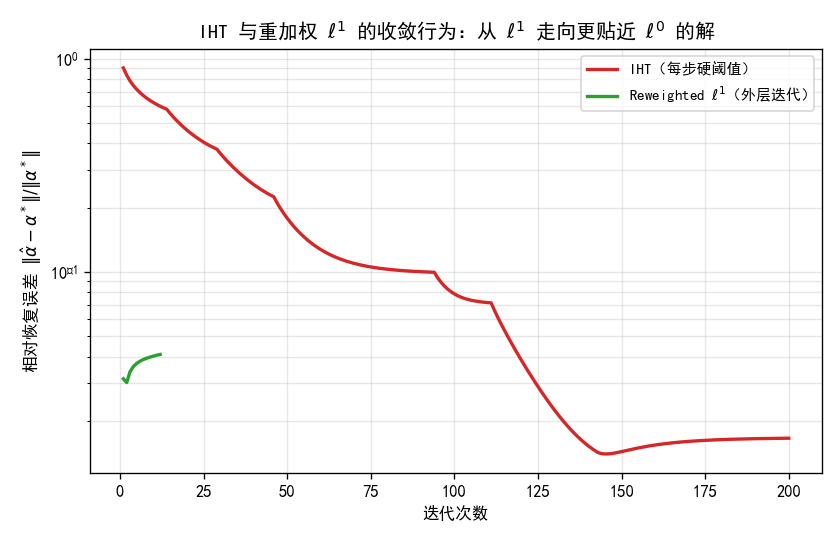
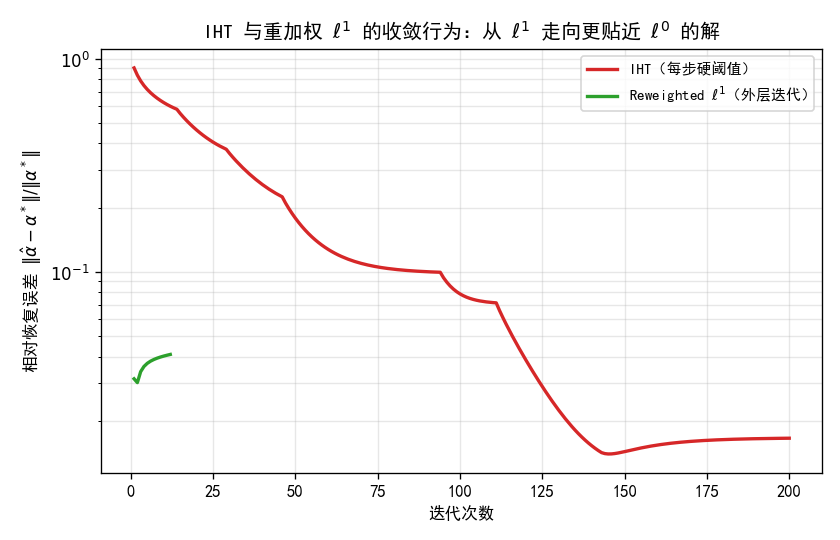
1

diff --git a/book/manuscript/ch02/第二章 配套实验/实验2.2-2/2.2-2.py b/book/manuscript/ch02/第二章 配套实验/实验2.2-2/2.2-2.py
@@ -495,6 +495,11 @@ ax.set_ylabel('相对恢复误差 $\\|\\hat{\\alpha}-\\alpha^*\\| / \\|\\alpha^*
 ax.set_title('IHT 与重加权 $\\ell^1$ 的收敛行为：从 $\\ell^1$ 走向更贴近 $\\ell^0$ 的解')
 ax.legend(fontsize=9)
 ax.grid(alpha=0.3, which='both')
+# 对数轴默认 LogFormatter 的主刻度标签包在 \mathdefault{} 里，其上标负号（U+2212）会
+# 回退到中文字体（SimHei 缺该字形）而渲染成豆腐块；改用纯 mathtext 格式器，
+# 负指数由数学字体（DejaVu）渲染，与本图标题/轴标里的其他 mathtext 风格保持一致
+ax.yaxis.set_major_formatter(FuncFormatter(
+    lambda v, _: f'$10^{{{int(round(np.log10(v)))}}}$'))
 fig.tight_layout()
 fig.savefig(os.path.join(SAVE_DIR, '图5_收敛曲线.png'), dpi=120)
 plt.close(fig)

diff --git a/第2章 先验：贝叶斯推断的灵魂/第二章 配套实验/实验2.2-2/2.2-2.py b/第2章 先验：贝叶斯推断的灵魂/第二章 配套实验/实验2.2-2/2.2-2.py
@@ -495,6 +495,11 @@ ax.set_ylabel('相对恢复误差 $\\|\\hat{\\alpha}-\\alpha^*\\| / \\|\\alpha^*
 ax.set_title('IHT 与重加权 $\\ell^1$ 的收敛行为：从 $\\ell^1$ 走向更贴近 $\\ell^0$ 的解')
 ax.legend(fontsize=9)
 ax.grid(alpha=0.3, which='both')
+# 对数轴默认 LogFormatter 的主刻度标签包在 \mathdefault{} 里，其上标负号（U+2212）会
+# 回退到中文字体（SimHei 缺该字形）而渲染成豆腐块；改用纯 mathtext 格式器，
+# 负指数由数学字体（DejaVu）渲染，与本图标题/轴标里的其他 mathtext 风格保持一致
+ax.yaxis.set_major_formatter(FuncFormatter(
+    lambda v, _: f'$10^{{{int(round(np.log10(v)))}}}$'))
 fig.tight_layout()
 fig.savefig(os.path.join(SAVE_DIR, '图5_收敛曲线.png'), dpi=120)
 plt.close(fig)

diff --git a/book/meta/全书缺口报告.md b/book/meta/全书缺口报告.md
@@ -68,6 +68,18 @@
 全书 118 个实验、6794 个 json 数值，正文覆盖率 68.6%（正常：正文只引用关键值）。
 余下 3 个低覆盖实验（5.4-2、9.3-1、10.1-1）均为 json 含长数组（训练曲线等）的正常情况，抽查关键指标即可。
 
+### 2026-10-25 仓库更新复审（合并 `e04ad0a` 后全量重跑）
+
+远端更新合并后做了一次地基+审计复审，结论：**无需重做**，既有审计资产全部有效。四套自动审计重跑增量良性：crossrefs 仍 0 问题（节 487→488、实验 964→969、图片 360→363，随新增内容上升）；notation 混用组×章结构不变；`audit_numbers` 报告字节级未变；`validate_bib` 全过。人工抽查 4 个正文大改节：13.5 DOC/DPS、15.4 零初始化验证均与当前 `results_summary.json` 逐数字命中（作者已在正文内嵌溯源/修正自审表）；16.1/16.3 相对本地仅“前向→正向”术语统一。
+
+**遗留待办（本节登记，防丢）**：
+
+| # | 事项 | 状态 | 说明 |
+|---|---|---|---|
+| E1 | `Hurault 等 (2022)`（4.7 §153 + 实验 4.7-1.py：未投影 PnP-ULA 严格步长界）——`scan_citations` 检出 212 条中唯一未登记项 | **待作者裁决**，暂不进 bib（维持 ⚠/待核 = 0） | 联网核实：确凿的 Hurault-Leclaire-Papadakis **2022**《Proximal Denoiser for Convergent PnP》(arXiv:2201.13256, ICML 2022) 只讲**确定性** PnP-PGD/PnP-ADMM，**不含 PnP-ULA/Langevin** → 直接登记会构成新型张冠李戴。正文那条随机步长界更像 deepinv 键 `hurault2023convergent`（proximal-MCMC/Langevin 线）。请作者指明确切论文（可能需同步改正文年份/署名，非仅加键） |
+| E2 | 成书树 4 个陈旧 PNG（实验 6.5-1 两个、12.6-1 两个，源端改名遗留的无引用死文件） | 未清（`DeleteFile` 对中文+空格路径失效；禁 shell 强删） | 不影响任何审计与正文（审计跑源树）。建议排版前做一次“删树重建”：`Remove-Item -Recurse book\manuscript` 后重跑 `sync_manuscript.py` 即彻底清零 |
+| E3 | 新入库 `experiment_checkpoint_v3.pkl` / `_T200.pkl` 是否进 git | 作者决定 | 不在同步白名单，不影响成书树；纯仓库体积/可复现性权衡 |
+
 ## 四、成书阶段进度
 
 - [x] **Phase 0** 书稿区分离：`book/` 建立，同步/审计工具就位，gitignore 清理

diff --git a/book/manuscript/ch13/13.5 扩散最优控制（进阶）.md b/book/manuscript/ch13/13.5 扩散最优控制（进阶）.md
@@ -327,7 +327,7 @@ $$\nabla_{\mathbf{x}_t}\log p(\mathbf{y}|\mathbf{x}_t) \approx \nabla_{\mathbf{x
 
 机制上看清一点很重要：图 (b) 显示 T=200 时每步控制只有 `10⁻²` 量级，全程离 `U_MAX=0.5` 的饱和线很远——**T=20 那次“末步一步投影”的坑不会在 T=200 重现**，因为同样的每步上限在 200 步上累积出的总权限放大了约 10 倍。换句话说，`U_MAX` 是“每步”的帽子，真正决定 DOC 能不能一步投影到 `y/A` 的是**总预算**；原文把 T=200 的偏离解释成“300 次迭代对 200 维欠收敛”，机制归因反了。
 
-这里还有一层更根本的原因，值得单独说：本例的观测极其信息充分（`σ_y/A = 0.05`，远小于先验标准差约 1.4），所以 `y/A` 这个“只信测量”的点几乎就是 MMSE 点估计（0.047651 vs 0.047159）。在这个 regime 里，**谁把测量拟合得更死，谁的点误差就更小**——DOC 的 90.7% 相对改进多半来自这一点，而不是“全局协调优于贪心”。
+这里还有一层更根本的原因，值得单独说：本例的观测极其信息充分（`σ_y/A = 0.05`，远小于先验标准差约 1.4），所以 `y/A` 这个“只信测量”的点几乎就是 MMSE 点估计（配对子集 13 次共享试验上 `y/A` 0.047651 与 MMSE 0.047159；对应全样本值为 0.0486 与 0.0481，见 JSON `T扫描补充."200"`）。在这个 regime 里，**谁把测量拟合得更死，谁的点误差就更小**——DOC 的 90.7% 相对改进多半来自这一点，而不是“全局协调优于贪心”。
 
 **第三条：DPS 的稳定窗随 `T` 整体右移，而“好误差”仍然靠收缩换**。
 

diff --git a/第13章 条件生成与逆问题求解/13.5 扩散最优控制（进阶）.md b/第13章 条件生成与逆问题求解/13.5 扩散最优控制（进阶）.md
@@ -327,7 +327,7 @@ $$\nabla_{\mathbf{x}_t}\log p(\mathbf{y}|\mathbf{x}_t) \approx \nabla_{\mathbf{x
 
 机制上看清一点很重要：图 (b) 显示 T=200 时每步控制只有 `10⁻²` 量级，全程离 `U_MAX=0.5` 的饱和线很远——**T=20 那次“末步一步投影”的坑不会在 T=200 重现**，因为同样的每步上限在 200 步上累积出的总权限放大了约 10 倍。换句话说，`U_MAX` 是“每步”的帽子，真正决定 DOC 能不能一步投影到 `y/A` 的是**总预算**；原文把 T=200 的偏离解释成“300 次迭代对 200 维欠收敛”，机制归因反了。
 
-这里还有一层更根本的原因，值得单独说：本例的观测极其信息充分（`σ_y/A = 0.05`，远小于先验标准差约 1.4），所以 `y/A` 这个“只信测量”的点几乎就是 MMSE 点估计（0.047651 vs 0.047159）。在这个 regime 里，**谁把测量拟合得更死，谁的点误差就更小**——DOC 的 90.7% 相对改进多半来自这一点，而不是“全局协调优于贪心”。
+这里还有一层更根本的原因，值得单独说：本例的观测极其信息充分（`σ_y/A = 0.05`，远小于先验标准差约 1.4），所以 `y/A` 这个“只信测量”的点几乎就是 MMSE 点估计（配对子集 13 次共享试验上 `y/A` 0.047651 与 MMSE 0.047159；对应全样本值为 0.0486 与 0.0481，见 JSON `T扫描补充."200"`）。在这个 regime 里，**谁把测量拟合得更死，谁的点误差就更小**——DOC 的 90.7% 相对改进多半来自这一点，而不是“全局协调优于贪心”。
 
 **第三条：DPS 的稳定窗随 `T` 整体右移，而“好误差”仍然靠收缩换**。
 

diff --git a/book/meta/sync_report.md b/book/meta/sync_report.md
@@ -1,31 +1,14 @@
 # 成书树同步报告
 
 - 模式：实际同步
-- 章数：18（绪论另计）
+- 章数：1（绪论另计）
 
 | 章节 | 同步文件数 |
 |---|---|
 | ch00 绪论 | 5 |
-| ch01 第1章 逆问题与贝叶斯推断 | 70 |
-| ch02 第2章 先验：贝叶斯推断的灵魂 | 83 |
-| ch03 第3章 从MAP到后验探索 | 61 |
-| ch04 第4章 MCMC与ULA算法 | 106 |
-| ch05 第5章 朗之万动力学与得分函数 | 127 |
-| ch06 第6章 得分匹配：从去噪中学习得分 | 68 |
-| ch07 第7章 扩散模型：SDE视角 | 59 |
-| ch08 第8章 变分推断与ELBO | 34 |
-| ch09 第9章 VAE与重参数化 | 35 |
-| ch10 第10章 层级VAE与扩散的变分推导 | 32 |
-| ch11 第11章 扩散模型：变分视角 | 20 |
-| ch12 第12章 Score ≡ ELBO：殊途同归 | 28 |
 | ch13 第13章 条件生成与逆问题求解 | 99 |
-| ch14 第14章 Flow Matching与最优传输 | 88 |
-| ch15 第15章 扩散模型的架构实践：UNet → DiT | 55 |
-| ch16 第16章 CT：MRI重建 | 83 |
-| ch17 第17章 自监督学习与等变架构 | 47 |
-| ch18 第18章 综合项目：用扩散模型求解自定义逆问题 | 44 |
 
-**合计同步文件：1144**
+**合计同步文件：104**
 
 > 说明：成书树 `book/manuscript/` 为同步产物，可删除后用本脚本重建；
 > 写作源仍是仓库根下的各章目录。数据集、checkpoint、审计备份均不同步。

diff --git a/book/meta/audit_crossrefs_report.md b/book/meta/audit_crossrefs_report.md
@@ -6,14 +6,14 @@
 
 | 引用类型 | 总数 | 通过 | 缺失 | 通过率 |
 |---|---|---|---|---|
-| 节引用（X.Y节） | 487 | 487 | 0 | 100.0% |
+| 节引用（X.Y节） | 488 | 488 | 0 | 100.0% |
 | 附录引用 | 149 | 149 | 0 | 100.0% |
-| 实验引用 | 964 | 964 | 0 | 100.0% |
-| 图片嵌入 | 360 | 360 | 0 | 100.0% |
+| 实验引用 | 969 | 969 | 0 | 100.0% |
+| 图片嵌入 | 363 | 363 | 0 | 100.0% |
 
 - 三级节引用（如 16.1.4）出现 535 处（未自动验证，建议人工抽查）
 
-- 图片引用形式：尖括号式 `![](<...>)` 359 处，普通式 `![](...)` 1 处，其中 URL 编码路径（`%20`）1 处 —— **三种格式问题并存，Phase 5 排版前需统一并去编码**
+- 图片引用形式：尖括号式 `![](<...>)` 362 处，普通式 `![](...)` 1 处，其中 URL 编码路径（`%20`）1 处 —— **三种格式问题并存，Phase 5 排版前需统一并去编码**
 
 ## 问题清单（共 0 处）
 

diff --git a/book/meta/audit_notation_report.md b/book/meta/audit_notation_report.md
@@ -119,11 +119,11 @@
 | 期望算子 | `\\mathbb E（无括号）` | 1 | 1 |
 | 范数记号 | `\\|（双竖线）` | 2287 | 19 |
 | 范数记号 | `\\lVert` | 4 | 2 |
-| 行内公式定界 | `$...$（美元）` | 18002 | 19 |
+| 行内公式定界 | `$...$（美元）` | 18011 | 19 |
 | 显示公式定界 | `$$（双美元）` | 2854 | 19 |
 | 下标 0（x_0） | `x_0` | 14 | 4 |
 | 下标 0（x_0） | `\\mathbf{x}_0` | 1010 | 15 |
-| σ（噪声水平） | `\\sigma` | 1767 | 19 |
+| σ（噪声水平） | `\\sigma` | 1769 | 19 |
 | σ（噪声水平） | `\\sigma_y` | 36 | 2 |
 | 微分/积分号的 d | `d（斜体）` | 467 | 19 |
 | 微分/积分号的 d | `\\mathrm{d}（罗马体，应为0）` | 1 | 1 |
